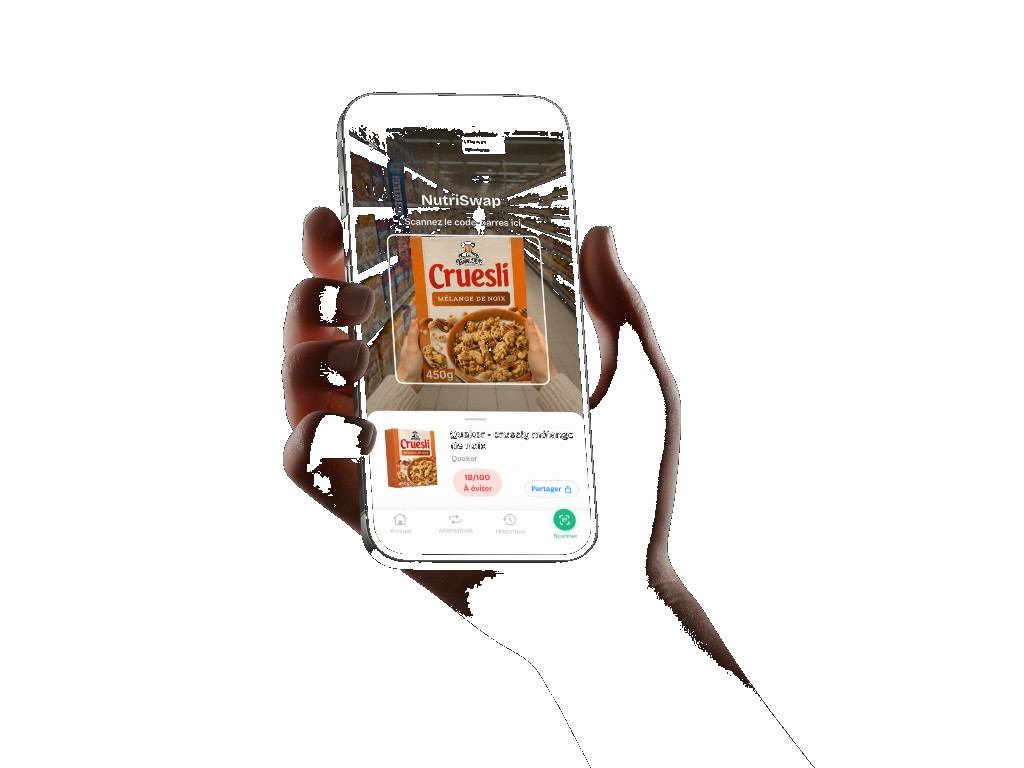
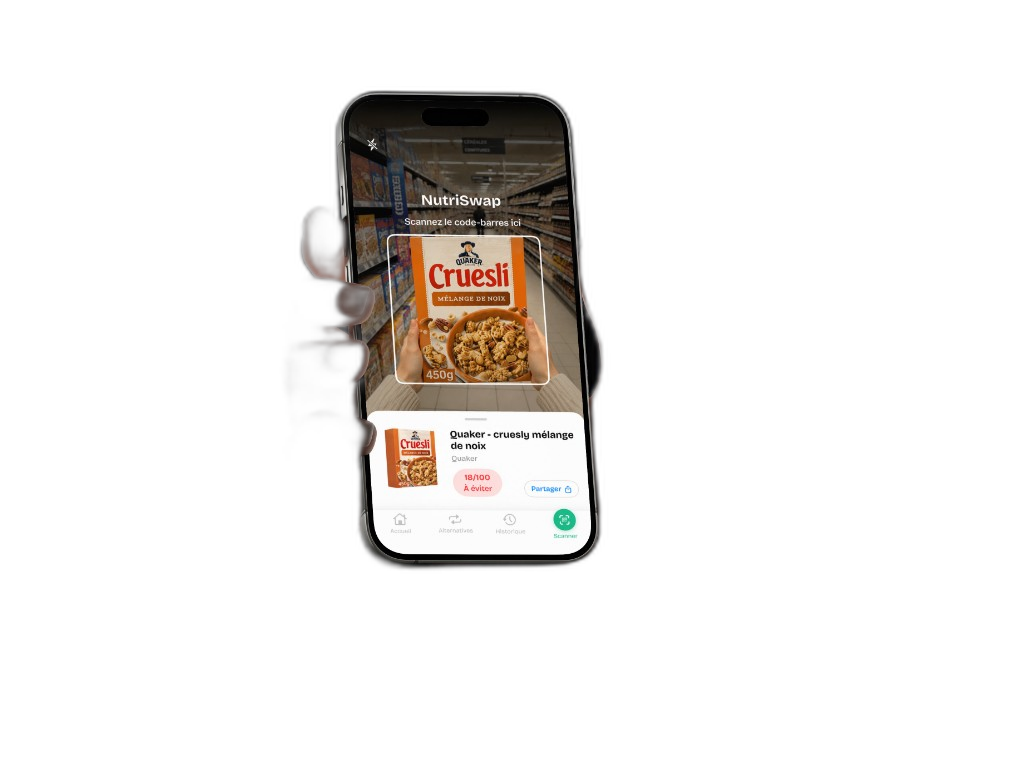
Fix mangled hero mockup with proper background removal.
Replace the broken pixel-stripping with a clean cutout so the phone floats on the light hero.

Changed region(s): [[0.25, 0.0938, 0.7188, 0.875], [0.7188, 0.875, 0.75, 0.9062], [0.4375, 0.2812, 0.4688, 0.3125]]

diff --git a/src/App.tsx b/src/App.tsx
@@ -133,7 +133,7 @@ function HomePage() {
               <img
                 src="/hero-scan-mockup.png"
                 alt={t('hero.screenshotsAlt')}
-                className="w-full max-w-sm sm:max-w-md lg:max-w-none lg:w-[105%] xl:w-[110%] h-auto object-contain object-bottom pointer-events-none select-none"
+                className="w-full max-w-sm sm:max-w-md lg:max-w-none lg:w-[105%] xl:w-[110%] h-auto object-contain object-bottom pointer-events-none select-none drop-shadow-2xl"
               />
             </div>
           </div>